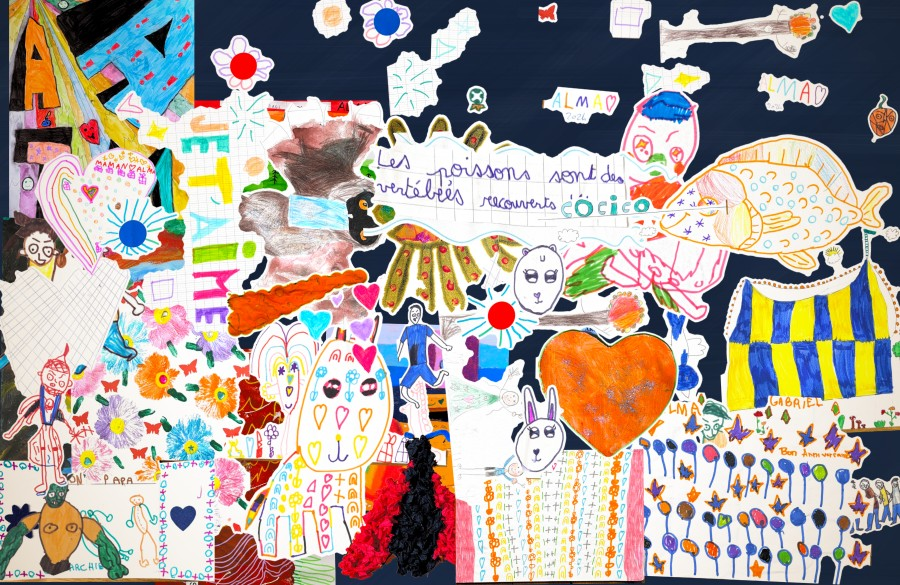
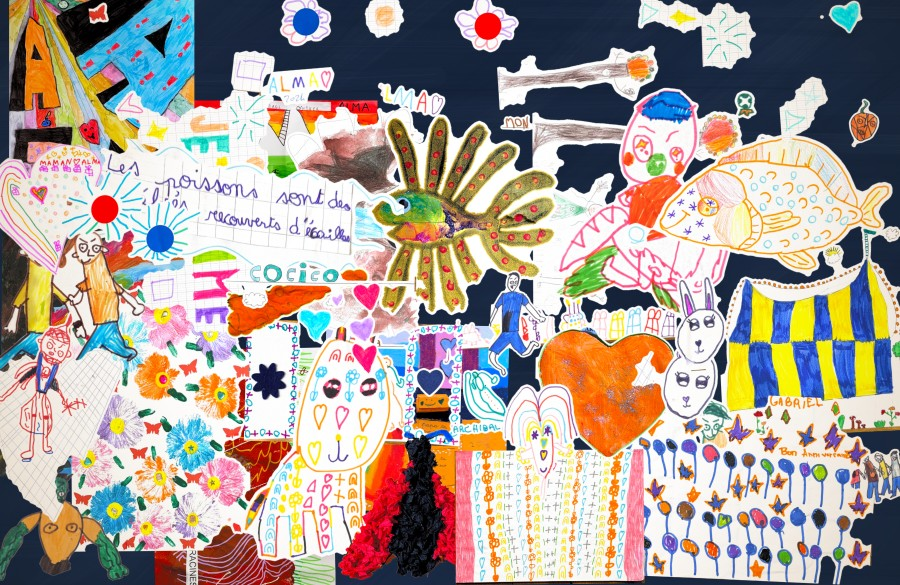
Découpe : une feuille blanche n'est jamais posée entière, ses sujets sont séparés
- page « pontée » (lignes d'écriture, carreaux du cahier ou cadre dessiné
  reliés par la fermeture, intérieur bouché) : quand un seul sujet couvre
  presque la feuille avec peu d'encre, on referme de moins loin et on ne
  bouche plus les grands trous ; les personnages et objets se séparent
  (un cadre dessiné reste une pièce creuse) ;
- forme trouvée sur une surface claire dont l'intérieur est surtout du
  papier : c'est une feuille, analysée comme une page ;
- test de page de cahier ; images de l'accueil régénérées.

Claude-Session: https://claude.ai/code/session_016gFESkuH8R1BfGgUe59ViC

diff --git a/collage/js/extract.js b/collage/js/extract.js
@@ -309,7 +309,9 @@
   }
 
   // Bouche les trous : tout ce qui n'est pas relié au bord par du vide devient plein.
-  function fillHoles(mask, w, h) {
+  // maxArea (facultatif) : un trou plus grand n'est pas bouché (l'intérieur d'un cadre dessiné autour
+  // d'une feuille n'est pas le sujet)
+  function fillHoles(mask, w, h, maxArea) {
     const seen = new Uint8Array(w * h);
     const stack = new Int32Array(w * h); // chaque pixel n'y entre qu'une fois
     let top = 0;
@@ -328,6 +330,15 @@
     }
     const out = new Uint8Array(w * h);
     for (let i = 0; i < out.length; i++) out[i] = seen[i] ? 0 : 1;
+    if (maxArea > 0) {
+      // trous : les plages non atteintes depuis le bord et hors du masque ; les grands restent ouverts
+      const holes = new Uint8Array(w * h);
+      for (let i = 0; i < holes.length; i++) holes[i] = !mask[i] && !seen[i] ? 1 : 0;
+      const { labels, comps } = components(holes, w, h);
+      const big = new Uint8Array(comps.length + 1);
+      comps.forEach((c) => { if (c.area > maxArea) big[c.id] = 1; });
+      for (let i = 0; i < out.length; i++) if (holes[i] && big[labels[i]]) out[i] = 0;
+    }
     return out;
   }
 
@@ -427,7 +438,7 @@
     let strongT = Math.max(20, (strong < n * 0.02 && faint > strong * 1.5 && faint > n * 0.008 ? Math.max(28, weakT + 6) : INK_DIST) * CUT.ink);
     const unit = Math.max(w, h);
     const m = Math.max(2, Math.round(Math.min(w, h) * 0.015));
-    const masks = (sT, wT, closeR) => {
+    const masks = (sT, wT, closeR, holeMax) => {
       const ink = inkMask(data, w, h, paper, sT, wT);
       // Les bords du scan (ombres, bord de feuille) ne sont pas du dessin.
       for (let y = 0; y < h; y++) {
@@ -439,13 +450,33 @@
       // (≈ 3 mm sur un A4), comme une découpe aux ciseaux : on ne rentre pas dans chaque creux d'un
       // contour ouvert, on contourne le sujet ; les traits distants de moins de ≈ 2 × closeR sont un même sujet
       let mask = dilate(ink, w, h, unit * closeR);
-      mask = fillHoles(mask, w, h);
+      mask = fillHoles(mask, w, h, holeMax ? holeMax * n : 0);
       mask = erode(mask, w, h, unit * (closeR - CUT.margin));
       const { labels, comps } = components(mask, w, h);
       comps.sort((a, b) => b.area - a.area);
       return { ink, labels, comps };
     };
     let r = masks(strongT, weakT, CUT.close);
+    // page « pontée » : un seul sujet couvre presque toute la feuille alors que l'encre y est rare
+    // (lignes de texte, carreaux du cahier, cadre dessiné reliés par la fermeture, puis l'intérieur
+    // bouché) ; la feuille entière serait posée comme une pièce. On referme de moins loin pour que
+    // les vrais sujets (personnages, objets) se séparent du reste.
+    const bridged = (rr) => {
+      const c = rr.comps[0];
+      if (!c) return false;
+      const bb = (c.x1 - c.x0 + 1) * (c.y1 - c.y0 + 1);
+      if (bb < 0.6 * n) return false;
+      let ink = 0;
+      for (let p = 0; p < n; p++) if (rr.labels[p] === c.id && rr.ink[p]) ink++;
+      return ink < 0.3 * c.area;
+    };
+    if (bridged(r)) {
+      for (const f of [0.5, 0.3]) {
+        const cr = Math.max(CUT.margin + 0.004, CUT.close * f);
+        const r2 = masks(strongT, weakT, cr, 0.08);
+        if (r2.comps.length && !bridged(r2)) { r = r2; r.closeR = cr; r.holeMax = 0.08; break; }
+      }
+    }
     // dessin très pâle (crayon léger sur papier blanc) : la première passe ne trouve que des miettes
     // éparses ; on refait avec des seuils plus bas, juste au-dessus du grain du papier, et des traits
     // reliés de plus loin
@@ -456,7 +487,7 @@
       let total2 = 0; r2.comps.forEach((c) => { total2 += c.area; });
       if (r2.comps.length && r2.comps[0].area > r.comps[0].area * 1.5 && total2 < n * 0.6) { r = r2; weakT = wT2; strongT = sT2; }
     }
-    return { work, data, w, h, paper, weakT, strongT, paperFrac: paperCount / n, labels: r.labels, comps: r.comps };
+    return { work, data, w, h, paper, weakT, strongT, closeR: r.closeR || CUT.close, holeMax: r.holeMax || 0, paperFrac: paperCount / n, labels: r.labels, comps: r.comps };
   }
 
   /*
@@ -783,9 +814,10 @@
     const inkF = inkMask(fd, fw, fh, seg.paper, seg.strongT || INK_DIST, seg.weakT || 30);
     for (let p = 0; p < inkF.length; p++) if (!allowed[p]) inkF[p] = 0;
     // marge de quelques millimètres autour de l'encre, trous bouchés, puis coupe nette
-    let fm = dilate(inkF, fw, fh, funit * CUT.close);
-    fm = fillHoles(fm, fw, fh);
-    fm = erode(fm, fw, fh, funit * (CUT.close - CUT.margin));
+    const closeR = seg.closeR || CUT.close;
+    let fm = dilate(inkF, fw, fh, funit * closeR);
+    fm = fillHoles(fm, fw, fh, seg.holeMax ? seg.holeMax * seg.w * seg.h * kf * kf : 0);
+    fm = erode(fm, fw, fh, funit * (closeR - CUT.margin));
     // si la détection fine n'a presque rien trouvé (sujet très pâle), on garde la forme grossière
     let fmCount = 0; for (let p = 0; p < fm.length; p++) fmCount += fm[p];
     let regCount = 0; for (let p = 0; p < region.length; p++) regCount += region[p];
@@ -1294,6 +1326,25 @@
     }
     ctx.putImageData(img, 0, 0);
     return { canvas: out, alpha: oa, W: OW, H: OH, rectFill, refined: !!ref };
+  }
+
+  // L'intérieur d'une forme trouvée sur la surface est-il surtout du papier (clair, peu saturé) ?
+  // Une « forme » blanche est alors une feuille, pas un objet découpé : ses sujets se découpent.
+  function paperish(alpha, canvas) {
+    const W = canvas.width, H = canvas.height;
+    const step = Math.max(1, Math.round(Math.max(W, H) / 220));
+    const d = ctx2d(canvas).getImageData(0, 0, W, H).data;
+    let n = 0, pap = 0;
+    for (let y = 0; y < H; y += step) for (let x = 0; x < W; x += step) {
+      const p = y * W + x;
+      if (alpha[p] < 0.5) continue;
+      n++;
+      const i = p * 4, r = d[i], g = d[i + 1], b = d[i + 2];
+      const mx = Math.max(r, g, b), mn = Math.min(r, g, b);
+      if (mx > 185 && (mx - mn) / Math.max(1, mx) < 0.22) pap++;
+    }
+    paperish.last = { n, ratio: n ? +(pap / n).toFixed(2) : null, W, H };
+    return n > 0 && pap / n >= 0.6;
   }
 
   function convexHull(pts) {
@@ -1911,6 +1962,14 @@
       }
       if (sheet && sheet.kind === 'object') {
         const cut = cutObject(src, sheet.mask, sheet.w, sheet.h);
+        if (cut.rectFill >= 0.85 && paperish(cut.alpha, cut.canvas)) {
+          // une feuille blanche à peu près rectangulaire prise pour une forme : c'est une page, à
+          // découper comme les autres (ses personnages et objets posés, pas la feuille entière)
+          const r = analyze(cut.canvas, 1, { flat: false });
+          r.photo = Object.assign({}, sheet.surface, { sheet: true });
+          r.original = src;
+          return r;
+        }
         const page = flatten(cut.canvas, true);
         const r = { page, paper: [250, 250, 250], texture: null, kind: 'cutout', paperFrac: 1, objectAlpha: { alpha: cut.alpha, W: cut.W, H: cut.H } };
         r.pieces = objectPieces(page, cut.alpha, cut.W, cut.H);
@@ -1918,6 +1977,10 @@
       }
       // photo d'un dessin posé sur un sol ou une table : on retire la surface
       const cleaned = removeSurface(src, !!opts.force);
+      // (sur un mur ou une table clairs, la silhouette d'une feuille blanche est incertaine : si la
+      // « forme » est surtout du papier, c'est une feuille, à découper comme une page)
+      if (cleaned && cleaned.object && cleaned.surface.kind !== 'bois' && paperish(cleaned.object.alpha, cleaned.canvas)) cleaned.object = null;
+      if (cleaned && removeSurface.debug) removeSurface.debug.paperish = paperish.last || null;
       if (cleaned && cleaned.object) {
         // objet découpé posé sur la surface : sa silhouette entière est la pièce
         const page = flatten(cleaned.canvas, true);

diff --git a/collage/tests/extract.spec.js b/collage/tests/extract.spec.js
@@ -122,6 +122,36 @@ test.describe('Analyse des pages (Extract)', () => {
     expect(r.kind).toBe('texture');
   });
 
+  test('une page de cahier (lignes de texte, carreaux, cadre) n’est pas posée entière : le sujet est découpé seul', async ({ app }) => {
+    const r = await app.page.evaluate(() => {
+      const W = 1400, H = 1000, c = Extract.makeCanvas(W, H), x = c.getContext('2d');
+      x.fillStyle = 'rgb(250,249,246)'; x.fillRect(0, 0, W, H);
+      // carreaux pâles du cahier
+      x.strokeStyle = 'rgb(205,220,240)'; x.lineWidth = 2;
+      for (let v = 60; v < W; v += 56) { x.beginPath(); x.moveTo(v, 40); x.lineTo(v, H - 40); x.stroke(); }
+      for (let v = 60; v < H; v += 56) { x.beginPath(); x.moveTo(40, v); x.lineTo(W - 40, v); x.stroke(); }
+      // trois lignes d'écriture bleue en haut
+      x.strokeStyle = 'rgb(40,60,170)'; x.lineWidth = 5; x.lineCap = 'round';
+      for (let l = 0; l < 3; l++) for (let k = 0; k < 26; k++) { const px = 120 + k * 46, py = 110 + l * 56; x.beginPath(); x.moveTo(px, py); x.quadraticCurveTo(px + 12, py - 18 - (k % 3) * 4, px + 26, py + 2); x.stroke(); }
+      // un cadre dessiné au feutre vert tout autour de la feuille
+      x.strokeStyle = 'rgb(60,150,70)'; x.lineWidth = 8; x.strokeRect(50, 50, W - 100, H - 100);
+      // le sujet : un poisson orange, au milieu
+      x.fillStyle = 'rgb(240,140,40)'; x.strokeStyle = 'rgb(120,60,10)'; x.lineWidth = 7;
+      x.beginPath(); x.ellipse(680, 600, 260, 150, 0, 0, 7); x.fill(); x.stroke();
+      x.beginPath(); x.moveTo(930, 600); x.lineTo(1060, 500); x.lineTo(1060, 700); x.closePath(); x.fill(); x.stroke();
+      const a = Extract.analyze(c, 0, {});
+      const ps = (a.pieces || []).map((p) => ({ frac: +p.frac.toFixed(2), x: p.src.x, y: p.src.y, w: p.src.w, h: p.src.h }));
+      return { kind: a.kind, n: ps.length, pieces: ps };
+    });
+    expect(r.kind).toBe('cutout');
+    expect(r.n).toBeGreaterThanOrEqual(2);
+    // le poisson est une pièce à lui seul (pas la feuille entière), et aucune pièce ne remplit la page
+    // (le cadre dessiné peut rester une pièce : un anneau, pas une feuille pleine)
+    const fish = r.pieces.find((p) => p.x < 440 && p.x + p.w > 1060 && p.y < 460 && p.y + p.h > 750 && p.h < 480);
+    expect(fish).toBeTruthy();
+    expect(r.pieces.every((p) => p.frac < 0.5)).toBe(true);
+  });
+
   test('un dessin très pâle au crayon est découpé d’un seul tenant, comme aux ciseaux', async ({ app }) => {
     const r = await app.page.evaluate(() => {
       const W = 1400, H = 1000, c = Extract.makeCanvas(W, H), x = c.getContext('2d');
